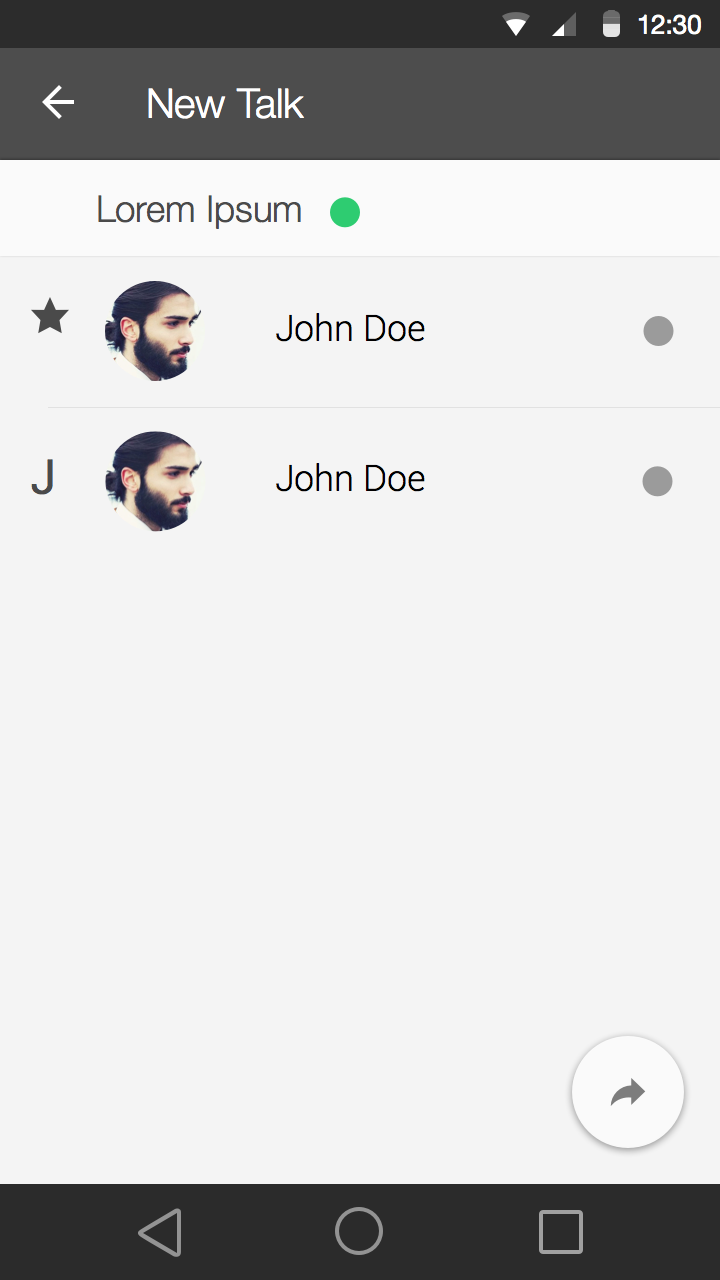
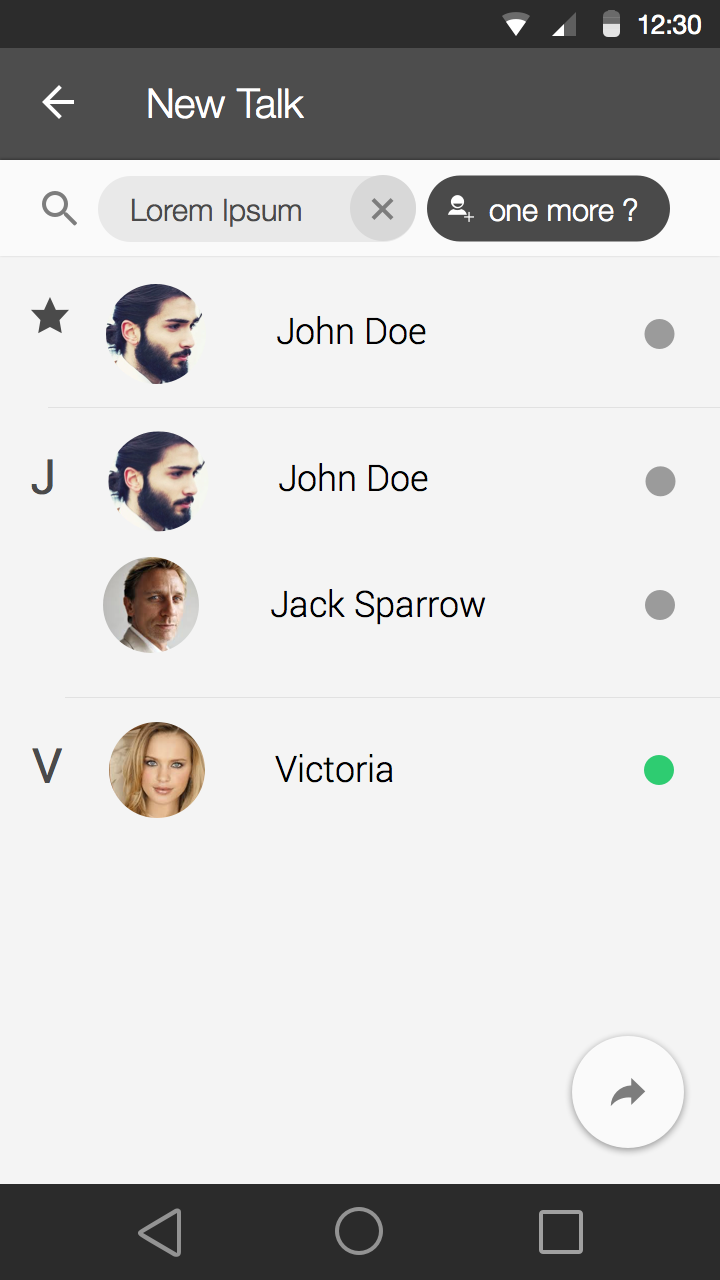
Updated the New Message Painel

diff --git a/doc/storyboard/newMessageGroup.html b/doc/storyboard/newMessageGroup.html
@@ -10,12 +10,10 @@
 			<center>
 				<div>
 					<div id="center">
-						<img id="centerIMG"src="img/Inbox New TalkAdded.png">
+						<img id="centerIMG"src="img/Inbox New TalkGroup.png">
 						<a href="index.html"><div class="highlight" style="position:absolute;top: 669px;left: 74px;width: 30px;height: 30px;"></div></a>
 						<a href="index.html"><div class="highlight" style="position:absolute;top: 40px;left: 17px;width: 30px;height: 30px;"></div></a>
-						<a href="newMessageSearch.html"><div class="highlight" style="position:absolute; top: 90px;left: 17px;width: 370px;height: 50px;"></div></a>
 						<a href="GroupMessage.html"><div class="highlight" style="position:absolute;top: 573px;left: 317px;width: 66px;height: 68px;"></div></a>
-						<a href="newMessageGroup.html"><div class="highlight" style="position:absolute; top: 150px;left: 17px;width: 370px;height: 70px;"></div></a>
 
 					</div>
 					<div id="text"><h1>Tox Android Application Mockup</h1></div>
